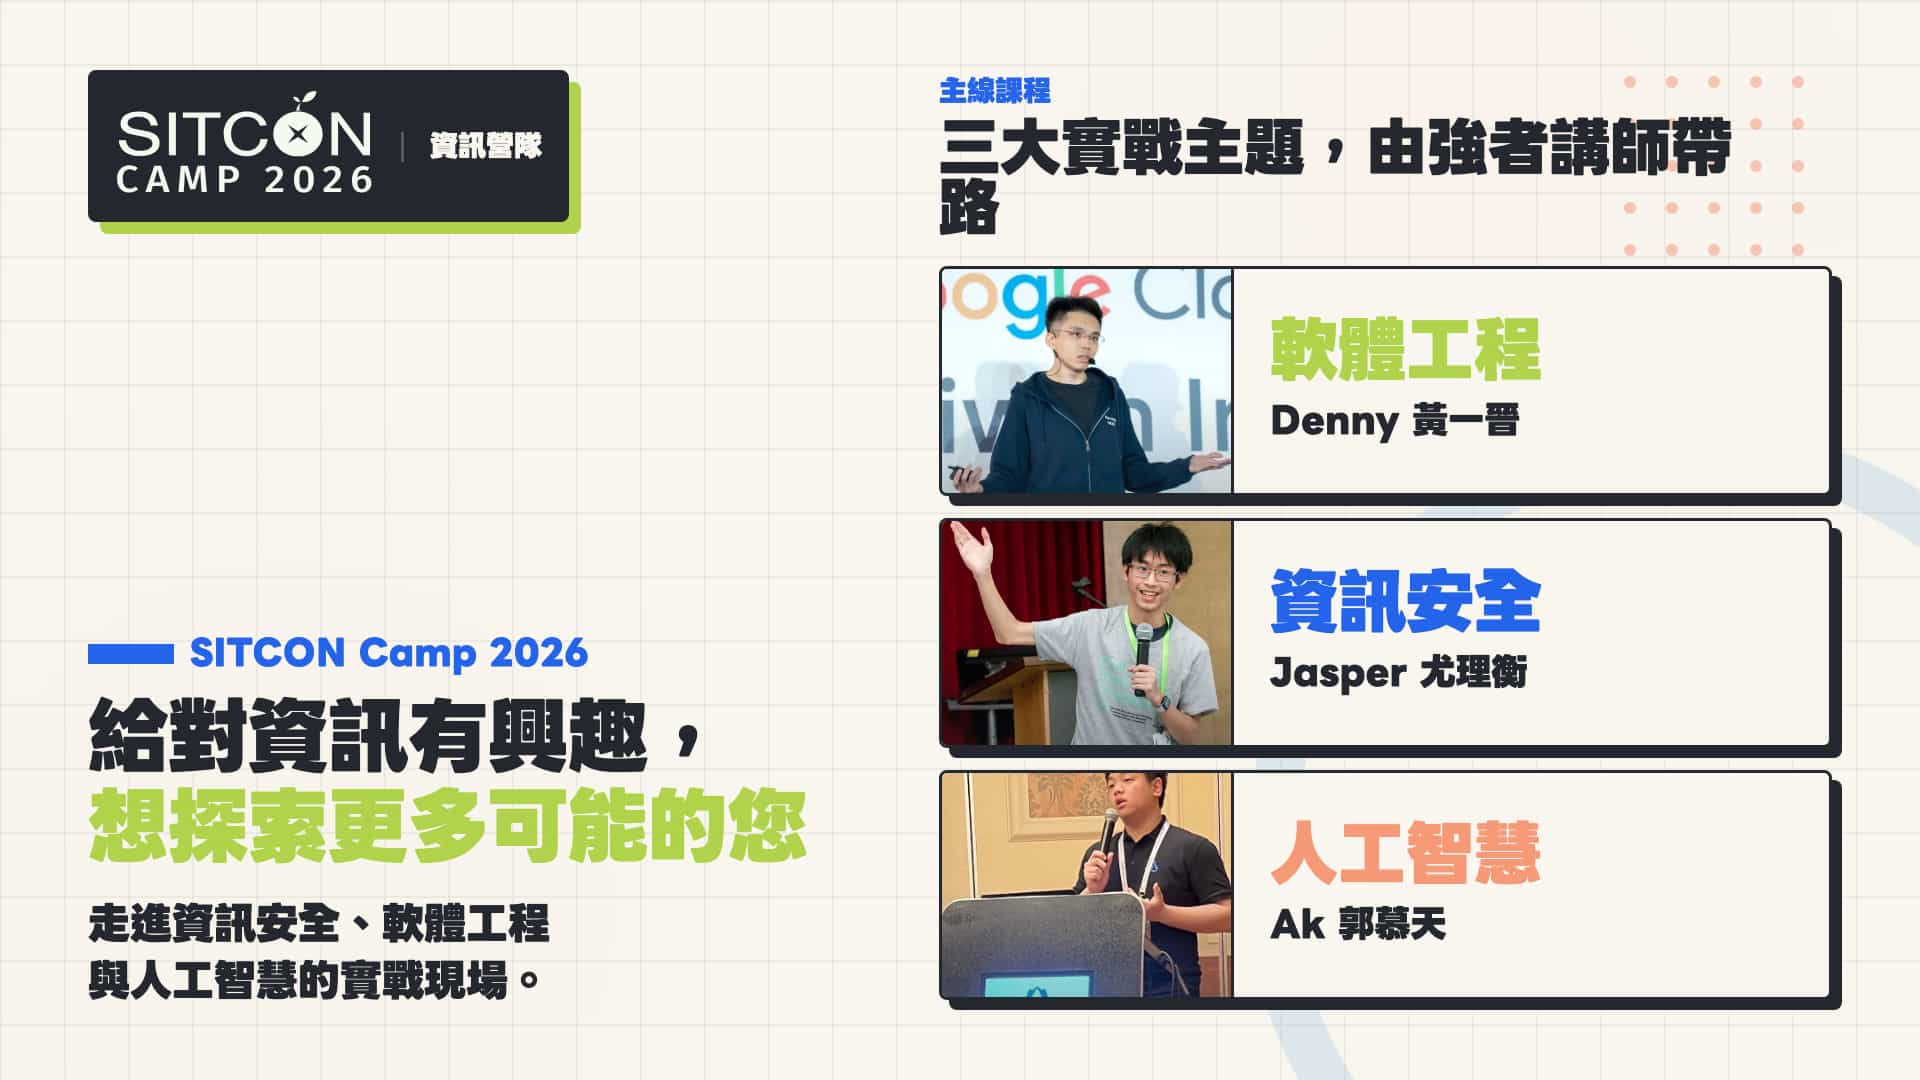
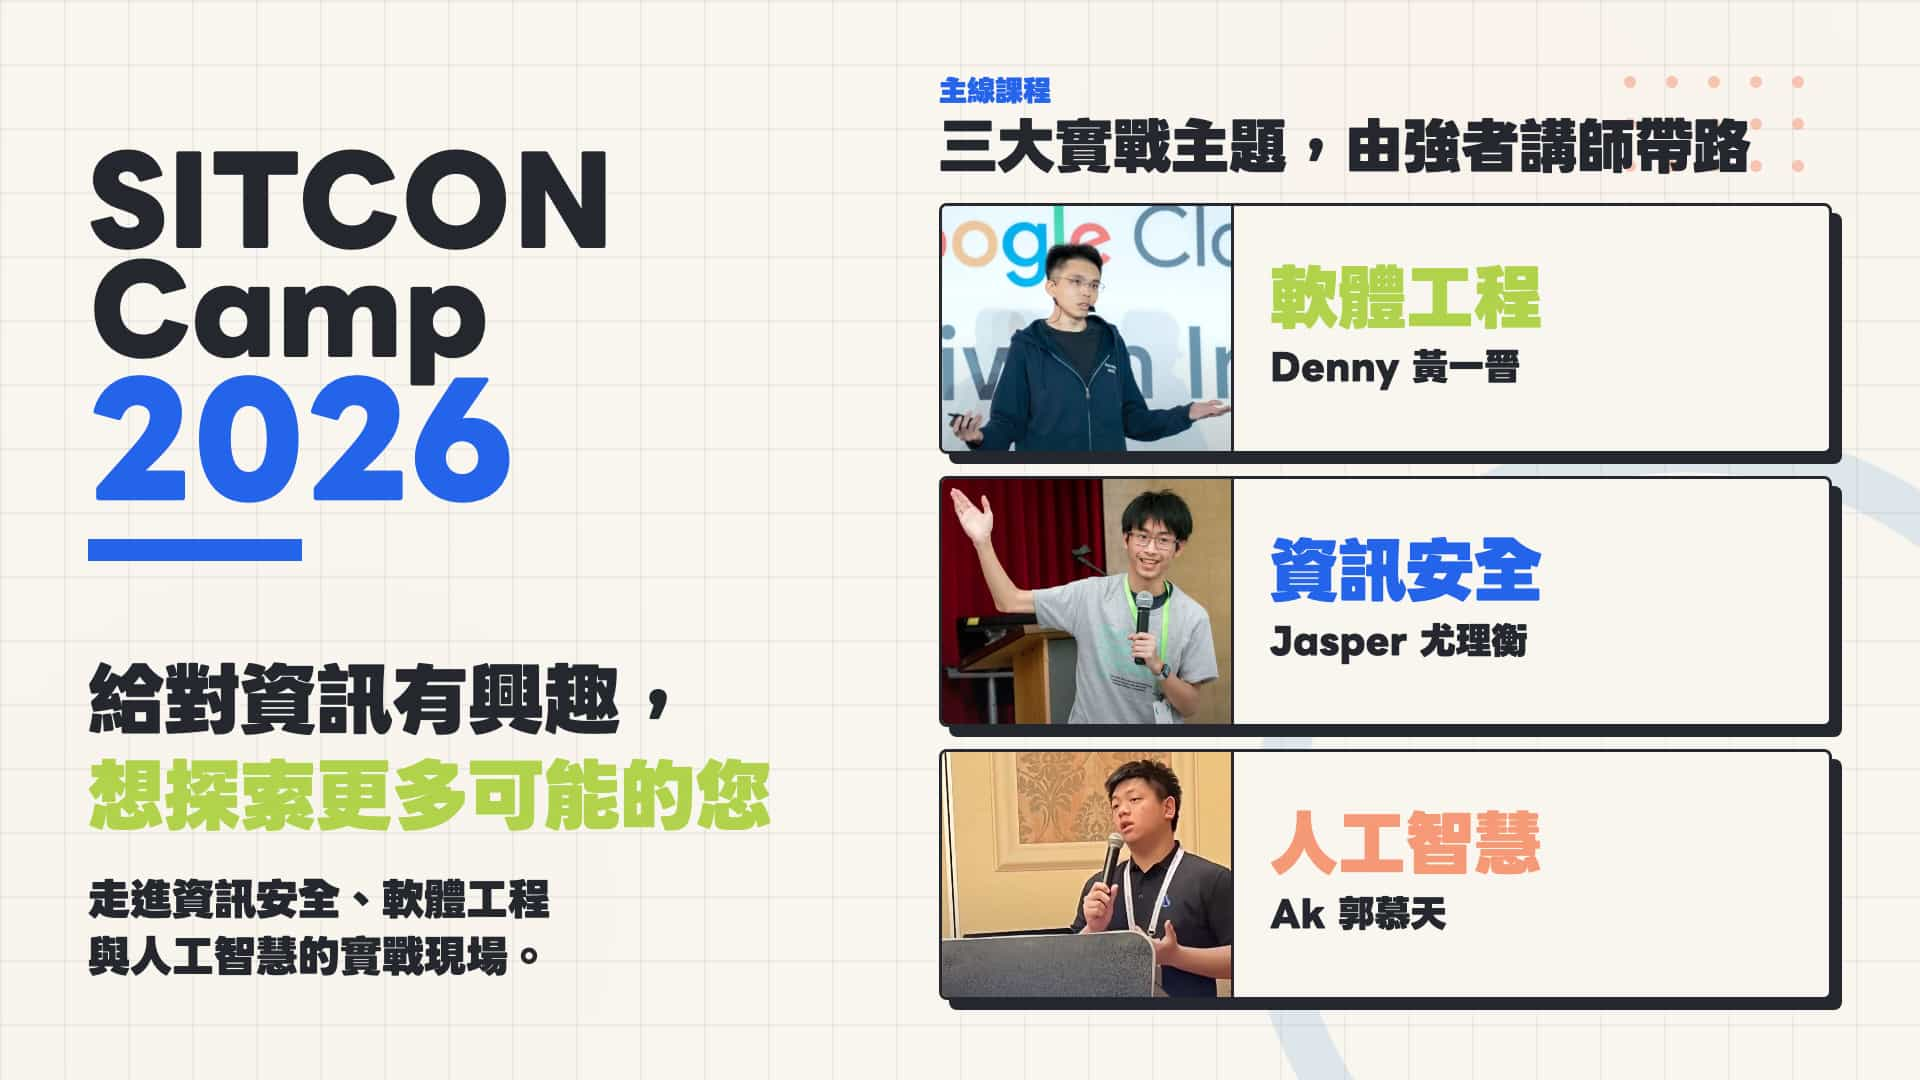
fix: fix the line breaks and update layout

Changed region(s): [[0.4688, 0.0917, 0.9688, 0.9472], [0.0312, 0.5806, 0.4375, 0.9472], [0.0312, 0.0611, 0.3125, 0.5194]]

diff --git a/index.html b/index.html
@@ -128,82 +128,69 @@
             }
 
             .left {
-                display: flex;
-                flex-direction: column;
+                display: grid;
                 min-width: 0;
                 min-height: 0;
                 height: 100%;
             }
 
-            .brand-block {
-                display: flex;
-                width: fit-content;
-                align-items: center;
-                gap: 28px;
-                padding: 18px 24px 17px;
-                border: 3px solid var(--foreground);
-                border-radius: 8px;
-                background: var(--foreground);
-                box-shadow: 12px 12px 0 var(--green);
-            }
-
-            .brand-block img {
-                display: block;
-                width: 258px;
-                height: auto;
-            }
-
-            .brand-caption {
-                display: grid;
-                padding-left: 26px;
-                border-left: 3px solid rgba(249, 245, 239, 0.26);
-                color: var(--background);
-                font-size: 28px;
-                font-weight: 800;
-                line-height: 1.08;
-                white-space: nowrap;
-            }
-
             .hero-copy {
+                display: flex;
+                flex-direction: column;
+                max-width: 880px;
+                height: 100%;
+                padding-top: 78px;
+                padding-bottom: 24px;
+            }
+
+            .hero-message {
                 display: grid;
-                gap: 28px;
-                max-width: 850px;
+                gap: 34px;
                 margin-top: auto;
             }
 
-            .kicker {
-                display: flex;
-                width: fit-content;
-                align-items: center;
-                gap: 16px;
+            .event-title {
+                display: grid;
+                gap: 8px;
                 margin: 0;
-                color: var(--primary-blue);
-                font-size: 35px;
+                color: var(--foreground);
+                font-size: 118px;
                 font-weight: 800;
-                line-height: 1;
+                line-height: 0.92;
+                letter-spacing: 0;
             }
 
-            .kicker::before {
-                width: 86px;
-                height: 20px;
+            .event-title span {
+                display: block;
+            }
+
+            .event-year {
+                color: var(--primary-blue);
+                font-size: 150px;
+            }
+
+            .event-title::after {
+                width: 214px;
+                height: 22px;
+                margin-top: 20px;
                 background: var(--primary-blue);
                 content: "";
             }
 
-            h1 {
+            .slogan {
                 max-width: 850px;
                 margin: 0;
                 color: var(--foreground);
-                font-size: 80px;
+                font-size: 76px;
                 font-weight: 800;
-                line-height: 1;
+                line-height: 1.08;
                 letter-spacing: 0;
                 white-space: nowrap;
             }
 
             .highlight {
                 display: block;
-                margin-top: 10px;
+                margin-top: 14px;
                 color: var(--green);
                 white-space: nowrap;
             }
@@ -245,8 +232,8 @@
             }
 
             .section-heading h2 {
-                max-width: 850px;
-                font-size: 61px;
+                max-width: none;
+                font-size: 58px;
                 font-weight: 800;
                 line-height: 0.98;
                 letter-spacing: 0;
@@ -378,25 +365,20 @@
             </div>
 
             <section class="left" aria-label="營隊介紹">
-                <div class="brand-block">
-                    <img
-                        src="assets/brand/sitcon-camp-logo.svg"
-                        alt="SITCON Camp 2026"
-                    />
-                    <div class="brand-caption" aria-hidden="true">
-                        <span>資訊營隊</span>
-                    </div>
-                </div>
-
                 <div class="hero-copy">
-                    <p class="kicker">SITCON Camp 2026</p>
-                    <h1>
-                        給對資訊有興趣，
-                        <span class="highlight">想探索更多可能的您</span>
+                    <h1 class="event-title">
+                        <span>SITCON Camp</span>
+                        <span class="event-year">2026</span>
                     </h1>
-                    <p class="lead">
-                        走進資訊安全、軟體工程與人工智慧的實戰現場。
-                    </p>
+                    <div class="hero-message">
+                        <p class="slogan">
+                            給對資訊有興趣，
+                            <span class="highlight">想探索更多可能的您</span>
+                        </p>
+                        <p class="lead">
+                            走進資訊安全、軟體工程與人工智慧的實戰現場。
+                        </p>
+                    </div>
                 </div>
             </section>
 
